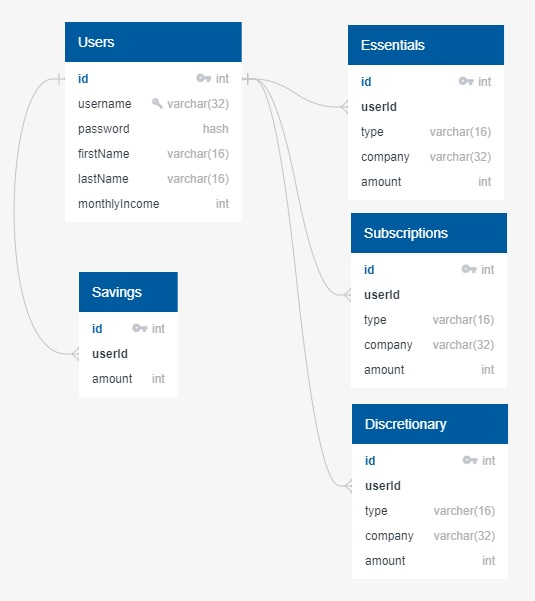
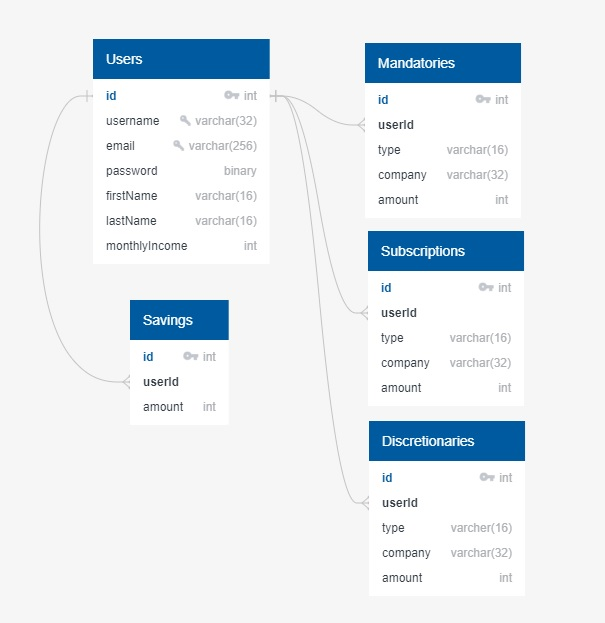
updating database diagram

diff --git a/design/dbdiagram.md b/design/dbdiagram.md
@@ -2,12 +2,13 @@ Users
 -
 id int PK
 username unique varchar(32)
-password hash
+email unique varchar(256)
+password binary
 firstName varchar(16)
 lastName varchar(16)
 monthlyIncome int
 
-Essentials
+Mandatories
 -
 id pk int
 userId FK >- Users.id
@@ -23,7 +24,7 @@ type varchar(16)
 company varchar(32)
 amount int
 
-Discretionary
+Discretionaries
 -
 id pk int
 userId FK >- Users.id
@@ -36,4 +37,3 @@ Savings
 id pk int
 userId FK >- Users.id
 amount int
-
